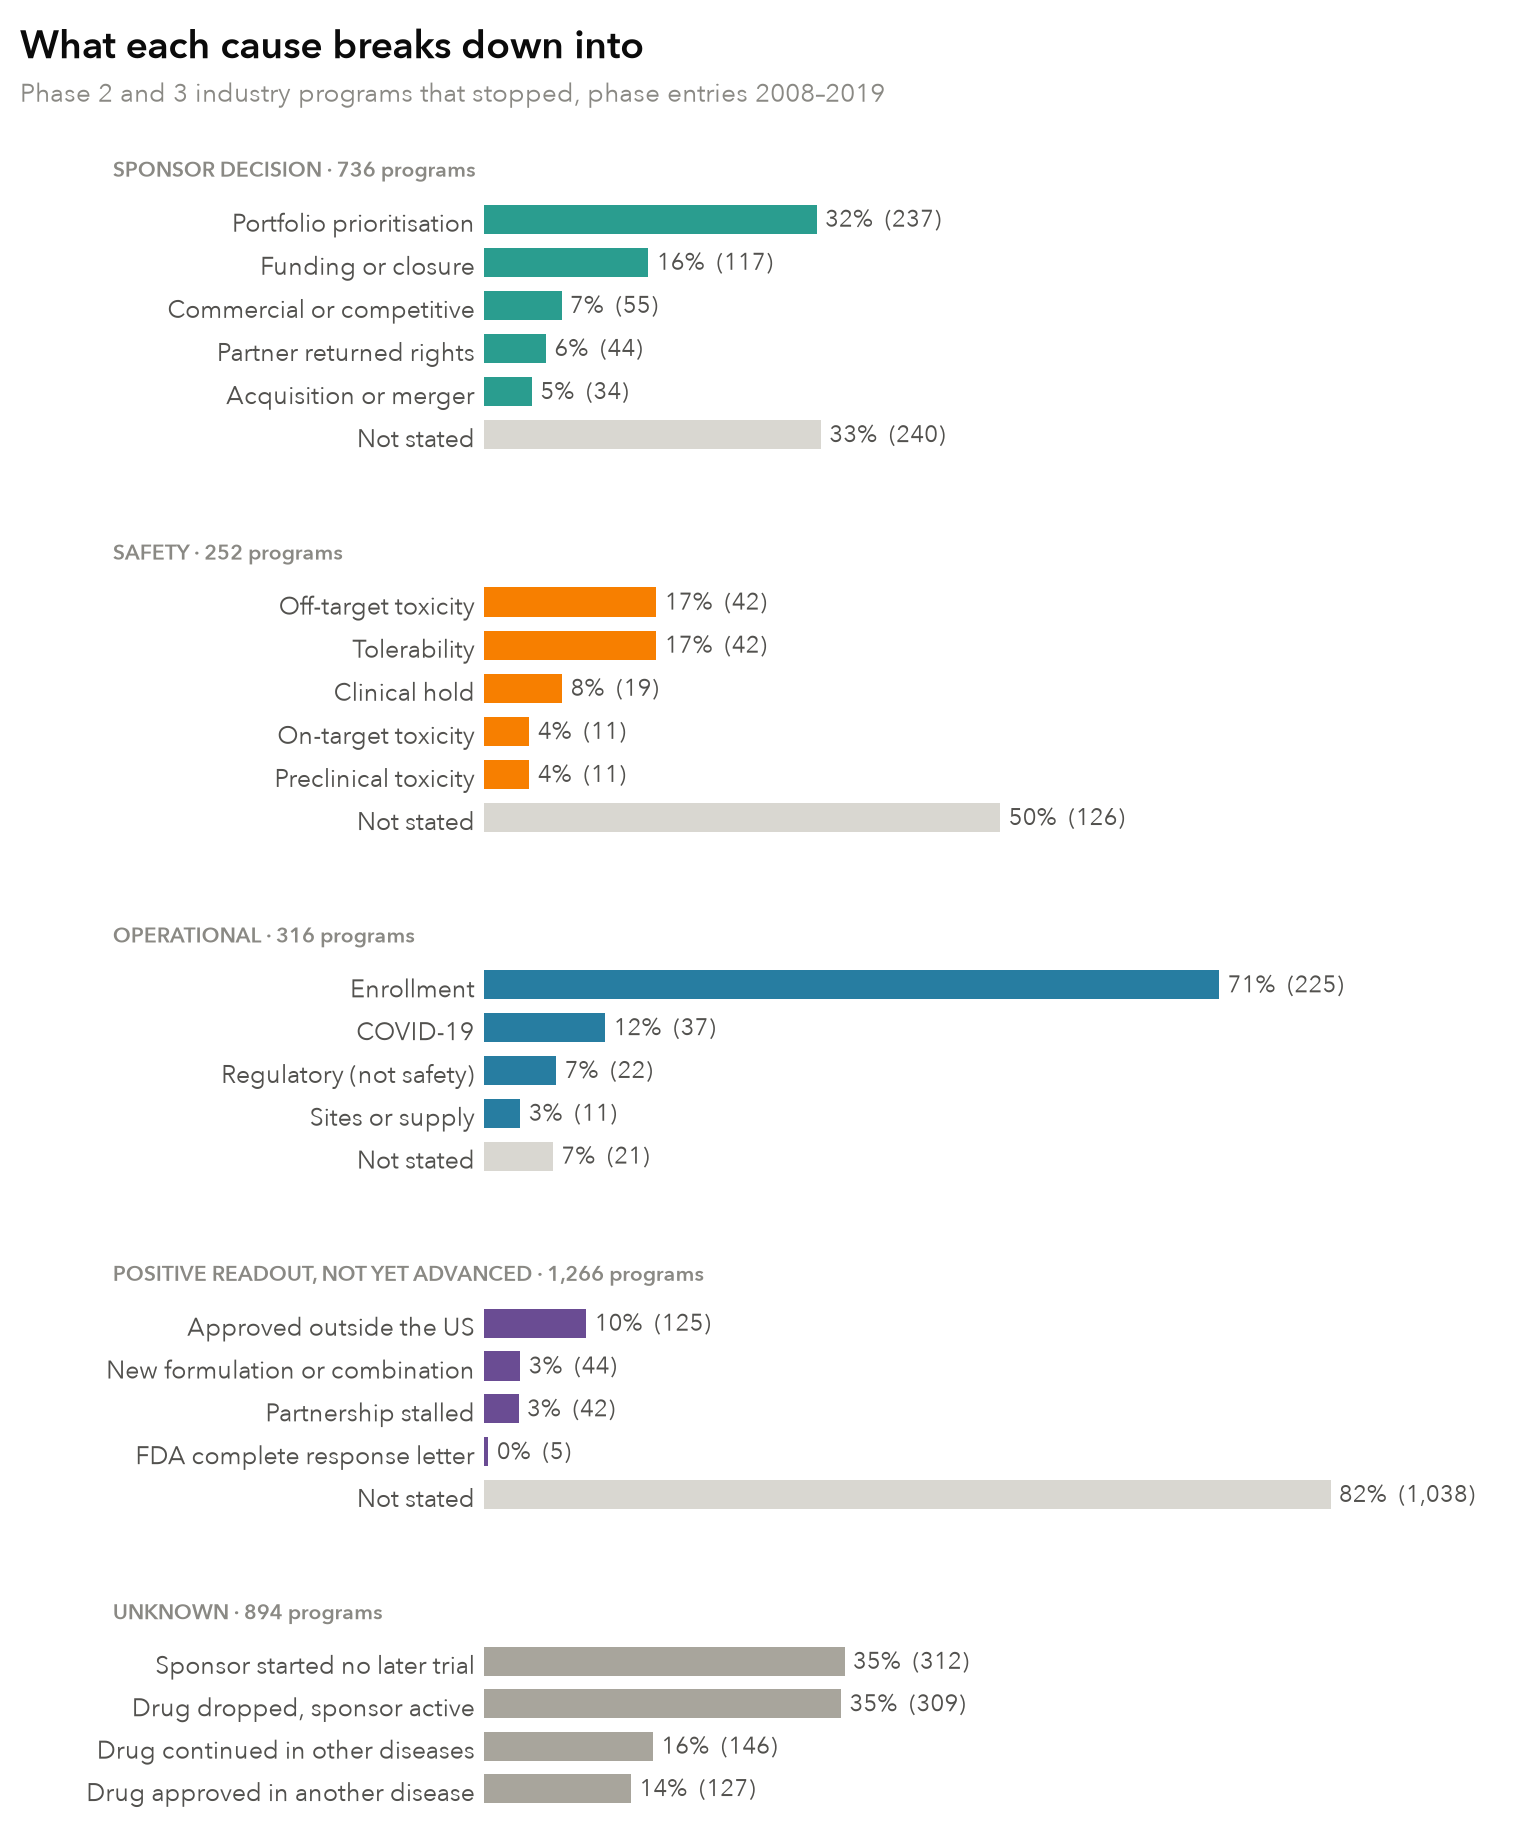
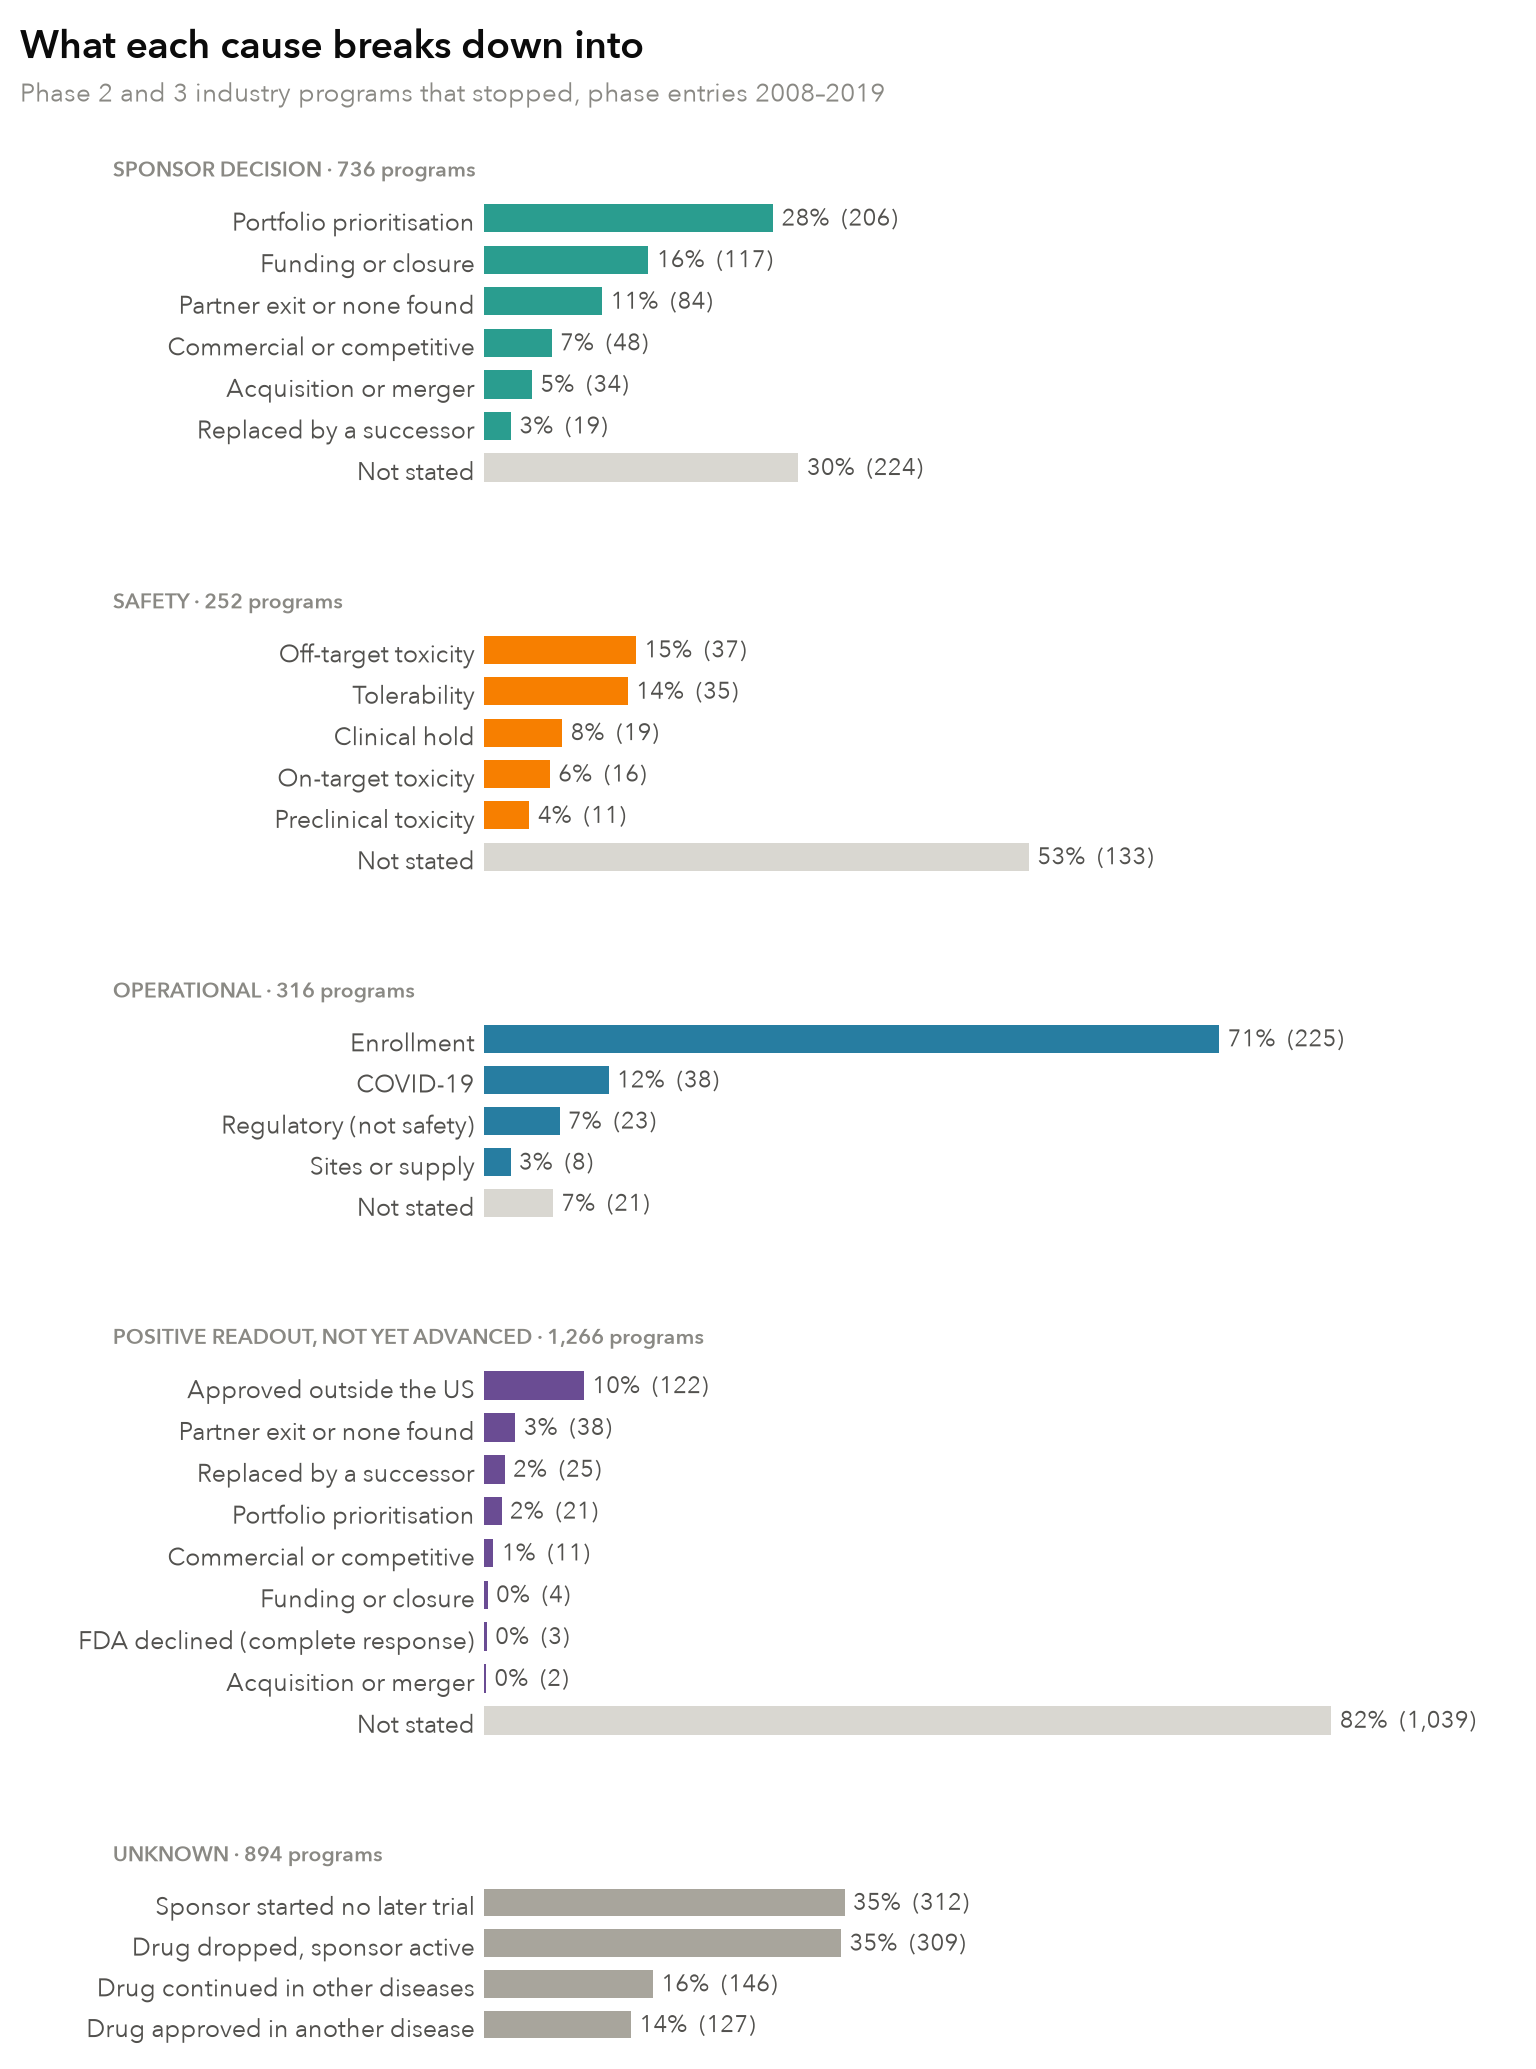
Sponsor decisions and positive readouts share one list of reasons development did not go on (#58)
A positive readout that went no further was almost always stopped by a sponsor
decision, and sponsors give two reasons the old list lacked. Both causes now draw on
DISCONTINUED: portfolio prioritisation, commercial or competitive, partner exit (a
partner left or none was found), acquisition or merger, funding or closure, replaced
by a successor. A positive readout may also be approved outside the US or declined by
the FDA. stop_subcause v2; stops with no valid subcause fall from 64 to 13.

diff --git a/pipeline/stop_causes.py b/pipeline/stop_causes.py
@@ -394,10 +394,10 @@ maps to preclin.stop's vocabulary ({'; '.join(f'{k} -> {v}' for k, v in CAUSE.it
 where no source states it, with the model's likely cause as the guess. If inference produced no validated decision
 the cause is unknown with no guess. Subcause: for an efficacy stop, why efficacy failed from its label (F9 coded by
 its pillars; not_attributed without a label); off_target_toxicity for a stop the label settles as safety; for
-safety, sponsor decision, operational and positive-readout stops, the stop_description@v1 subcause; for an unknown
+safety, sponsor decision, operational and positive-readout stops, the stop_description@v2 subcause; for an unknown
 cause, what the drug and sponsor did next
 (preclin.stop_signal). Explanation: the label's rationale where it gives the subcause, else the source quote or the
-model's basis (in stop_description@v1's plain wording where it used failure codes), else what the trial that
+model's basis (in stop_description@v2's plain wording where it used failure codes), else what the trial that
 gave Section 1 its reason states (its stated reason for stopping, else
 the result Section 1 read), with the trial in the sources. Traced: the cause did not come straight from the registry (no usable reason, or the label overturned
 it)."""
@@ -480,22 +480,22 @@ SUBCAUSE_MEANING = {
     "clinical_hold": "a regulator's clinical hold or a safety board's recommendation to stop",
     "portfolio_prioritisation": "the sponsor chose to put its resources into other programs",
     "commercial_or_competitive": "the market, pricing, reimbursement or a competing drug made it not worth pursuing",
-    "partner_returned_rights": "a licensing or development partner ended the deal or handed the rights back",
+    "partner_exit": "a licensing or development partner ended the deal or handed the rights back, or the sponsor was "
+                    "looking for a partner to take it forward and none did",
     "acquisition_or_merger": "the sponsor was acquired or merged and the program was dropped",
     "funding_or_closure": "the sponsor ran out of money, wound down, went bankrupt or closed",
     "enrollment": "patients could not be recruited or retained fast enough",
     "site_or_supply": "trial sites, drug supply, manufacturing for the trial or other logistics",
     "covid_19": "the COVID-19 pandemic disrupted the trial",
     "regulatory": "a regulatory or procedural requirement or hold not about safety",
+    "replaced_by_successor": "development moved to another formulation, dose form, combination or follow-on drug",
     "approved_outside_us": "the drug was approved, or filed, outside the United States",
-    "fda_complete_response": "the FDA declined to approve it (a complete response letter)",
-    "partnership_stalled": "a positive result was waiting for, or lost, a partner",
-    "new_formulation_or_combination": "development moved to another formulation, dose form, combination or follow-on drug",
+    "fda_declined": "the FDA declined to approve it (a complete response letter)",
     "not_stated": "the text gives no more detail than the cause",
 }
 SUBCAUSE_SYSTEM = f"""You read why a drug development program stopped and name the subcause. The cause is already decided and is given; so is the text it rests on (the sponsor's stated reason, a quote from a source, a posted result, or an analyst's reasoning).
 
-Choose the one subcause, from the list for the given cause, that the text states or directly implies. Use not_stated when the text says no more than the cause. Judge only from the text; do not use what you know about the drug or the company.
+Choose the one subcause, from the list for the given cause, that the text states or directly implies. Use not_stated when the text says no more than the cause. For a positive readout that went no further, name why development did not go on after the good result. Judge only from the text; do not use what you know about the drug or the company.
 
 Subcauses for each cause:
 {chr(10).join(f"- {c}: {', '.join(v)}" for c, v in SUBCAUSES.items())}
@@ -517,7 +517,7 @@ def validate_subcause(p: dict, out: dict) -> None:
         raise ValueError(f"subcause {out['subcause']} is not one of {p['cause']}'s")
 
 
-SUBCAUSE_TASK = llm.Task(name="stop_subcause", prompt_version="v1", schema_version="v1", system=SUBCAUSE_SYSTEM,
+SUBCAUSE_TASK = llm.Task(name="stop_subcause", prompt_version="v2", schema_version="v1", system=SUBCAUSE_SYSTEM,
                          schema=SUBCAUSE_SCHEMA, subject_type="program_phase", validate=validate_subcause,
                          render=lambda p: f"Cause: {p['cause']}\nRegistry reason: {p['registry_reason']}\n\n"
                                           f"Text:\n{p['explanation']}",
@@ -563,7 +563,7 @@ def describe_items(rows: list[tuple]) -> tuple[dict, dict]:
     return sub, plain
 
 
-DESCRIBE_METHOD = "stop_description@v1"
+DESCRIBE_METHOD = "stop_description@v2"
 DESCRIBE_DESCRIPTION = f"""Two passes over the rows stop_cause_assembly writes, without web search (model
 {SUBCAUSE_TASK.model}, effort {SUBCAUSE_TASK.effort}). {SUBCAUSE_TASK.name}: for every stop whose cause is
 {', '.join(SUBCAUSES)} and whose subcause the efficacy label does not set, the model reads the cause, the registry

diff --git a/report/stop_causes.py b/report/stop_causes.py
@@ -19,7 +19,7 @@ from sklearn.metrics import cohen_kappa_score
 
 from pipeline import llm
 from pipeline.stop_causes import VALIDATE_METHOD
-from pipeline.stops import CAUSE, CAUSES, COMPANY_ENDED, FATES, REGISTRY_CAUSE, SUBCAUSES, keys
+from pipeline.stops import CAUSE, CAUSES, COMPANY_ENDED, DISCONTINUED, FATES, REGISTRY_CAUSE, SUBCAUSES, keys
 from report import frame
 from report.windows import RECENT, SECTION1, SECTION1_PERIODS
 from report.section3 import jsonable
@@ -41,11 +41,10 @@ SUBCAUSE_NAMES = {
     "on_target_toxicity": "On-target toxicity", "off_target_toxicity": "Off-target toxicity",
     "tolerability": "Tolerability", "preclinical_toxicity": "Preclinical toxicity", "clinical_hold": "Clinical hold",
     "portfolio_prioritisation": "Portfolio prioritisation", "commercial_or_competitive": "Commercial or competitive",
-    "partner_returned_rights": "Partner returned rights", "acquisition_or_merger": "Acquisition or merger",
+    "partner_exit": "Partner exit or none found", "acquisition_or_merger": "Acquisition or merger",
     "funding_or_closure": "Funding or closure", "enrollment": "Enrollment", "site_or_supply": "Sites or supply",
     "covid_19": "COVID-19", "regulatory": "Regulatory (not safety)", "approved_outside_us": "Approved outside the US",
-    "fda_complete_response": "FDA complete response letter", "partnership_stalled": "Partnership stalled",
-    "new_formulation_or_combination": "New formulation or combination",
+    "fda_declined": "FDA declined (complete response)", "replaced_by_successor": "Replaced by a successor",
     "sponsor_went_quiet": "Sponsor started no later trial", "drug_approved_elsewhere": "Drug approved in another disease",
     "drug_continued_elsewhere": "Drug continued in other diseases", "drug_dropped": "Drug dropped, sponsor active",
     "not_stated": "Not stated",
@@ -136,6 +135,7 @@ def main() -> None:
                                   ("company_event", infer[infer.subcause.isin(COMPANY_ENDED)])]},
          "subcauses": {c: distribution(g, "subcause", BREAKDOWN[c]) for c, g in d.groupby("cause") if c in BREAKDOWN},
          "subcause_programs": {c: int(len(g)) for c, g in d.groupby("cause") if c in BREAKDOWN},
+         "positive_discontinued": float(d[d.cause.eq("positive_not_advanced")].subcause.isin(DISCONTINUED).mean()),
          "validation": validation()}
     with open(os.path.join(OUT, "numbers.json"), "w") as f:
         json.dump(n, f, indent=1, default=jsonable)

diff --git a/pipeline/stops.py b/pipeline/stops.py
@@ -46,14 +46,16 @@ SUBCAUSE = {"F1a": "not_engaged", "F1b": "not_engaged", "F2": "engaged_no_benefi
 EFFICACY_SUBCAUSES = ["not_engaged", "engaged_no_benefit", "trial_design", "toxicity_offset", "no_engagement_data"]
 # The subcauses of the other causes, chosen by pipeline.stop_causes describe from what the stop's explanation says;
 # not_stated where it says no more than the cause. A stop the efficacy label settles as safety is off_target_toxicity.
+# A sponsor decision and a positive readout that went no further share the reasons development did not go on
+# (DISCONTINUED); a positive readout may also have been approved outside the US or declined by the FDA.
+DISCONTINUED = ["portfolio_prioritisation", "commercial_or_competitive", "partner_exit", "acquisition_or_merger",
+                "funding_or_closure", "replaced_by_successor"]
 SUBCAUSES = {
     "safety": ["on_target_toxicity", "off_target_toxicity", "tolerability", "preclinical_toxicity", "clinical_hold",
                "not_stated"],
-    "sponsor_decision": ["portfolio_prioritisation", "commercial_or_competitive", "partner_returned_rights",
-                         "acquisition_or_merger", "funding_or_closure", "not_stated"],
+    "sponsor_decision": [*DISCONTINUED, "not_stated"],
     "operational": ["enrollment", "site_or_supply", "covid_19", "regulatory", "not_stated"],
-    "positive_not_advanced": ["approved_outside_us", "fda_complete_response", "partnership_stalled",
-                              "new_formulation_or_combination", "not_stated"],
+    "positive_not_advanced": ["approved_outside_us", "fda_declined", *DISCONTINUED, "not_stated"],
 }
 COMPANY_ENDED = ("acquisition_or_merger", "funding_or_closure")
 DETAIL = {"F1b": "other_drug_on_target_worked", "F3": "wrong_population", "F4": "wrong_endpoint_or_timing",

diff --git a/report/narrative/section1_stop_causes.md b/report/narrative/section1_stop_causes.md
@@ -10,7 +10,7 @@ A sourced cause was found for {{stop_causes.inferred.resolved|pct0}} of the trac
 * **Efficacy is under-recorded.** Efficacy or exposure was the sourced cause of {{stop_causes.inferred.cause.efficacy|int}} traced programs, usually from published results or a company statement the registry never carried, raising efficacy or exposure from {{stop_causes.recorded.efficacy.share|pct0}} of all Phase 2/3 stops as registered to {{stop_causes.evidence.efficacy.share|pct0}} sourced ({{stop_causes.likely.efficacy.share|pct0}} counting likely causes).
 * **Sponsor decisions are the rest.** Portfolio, commercial and partner decisions, acquisitions, mergers, lost funding and closures account for {{stop_causes.likely.sponsor_decision.share|pct0}} of all stops counting likely causes. Safety stays rare ({{stop_causes.likely.safety.share|pct0}}).
 
-**Within each cause.** Where the sponsor decided, the sources most often name portfolio prioritisation ({{stop_causes.subcauses.sponsor_decision.portfolio_prioritisation.share|pct0}}) or the company running out of money or closing ({{stop_causes.subcauses.sponsor_decision.funding_or_closure.share|pct0}}); {{stop_causes.subcauses.sponsor_decision.not_stated.share|pct0}} say no more than "business reasons". Operational stops are mostly slow enrollment ({{stop_causes.subcauses.operational.enrollment.share|pct0}}). {{stop_causes.subcauses.safety.not_stated.share|pct0}} of safety stops do not say what the harm was. Most positive readouts that went no further give no reason ({{stop_causes.subcauses.positive_not_advanced.not_stated.share|pct0}}); approval outside the US is the most common one named ({{stop_causes.subcauses.positive_not_advanced.approved_outside_us.share|pct0}}). Of the stops no source explains, {{stop_causes.subcauses.unknown.sponsor_went_quiet.share|pct0}} had a sponsor that started no later trial, and in {{stop_causes.subcauses.unknown.drug_dropped.share|pct0}} the drug was dropped while its sponsor carried on.
+**Within each cause.** Where the sponsor decided, the sources most often name portfolio prioritisation ({{stop_causes.subcauses.sponsor_decision.portfolio_prioritisation.share|pct0}}) or the company running out of money or closing ({{stop_causes.subcauses.sponsor_decision.funding_or_closure.share|pct0}}); {{stop_causes.subcauses.sponsor_decision.not_stated.share|pct0}} say no more than "business reasons". Operational stops are mostly slow enrollment ({{stop_causes.subcauses.operational.enrollment.share|pct0}}). {{stop_causes.subcauses.safety.not_stated.share|pct0}} of safety stops do not say what the harm was. Most positive readouts that went no further give no reason ({{stop_causes.subcauses.positive_not_advanced.not_stated.share|pct0}}); otherwise the drug was approved outside the US ({{stop_causes.subcauses.positive_not_advanced.approved_outside_us.share|pct0}}) or the sponsor chose not to go on, for the same reasons as other sponsor decisions ({{stop_causes.positive_discontinued|pct0}}), each as a share of all positive readouts. Of the stops no source explains, {{stop_causes.subcauses.unknown.sponsor_went_quiet.share|pct0}} had a sponsor that started no later trial, and in {{stop_causes.subcauses.unknown.drug_dropped.share|pct0}} the drug was dropped while its sponsor carried on.
 
 ![Each cause of Phase 2 and 3 stops, phase entries 2008–2019, broken down by subcause. Subcauses are what the sponsor's stated reason or the traced source says; "not stated" means it says no more than the cause. For stops no source explains (unknown), the breakdown is what the drug and its sponsor did next, not a reason](report/output/figures/stop_subcauses.png)
 

diff --git a/report/methods_stops_and_engagement.md b/report/methods_stops_and_engagement.md
@@ -51,7 +51,7 @@ sponsor decision, with acquisitions, mergers, lost funding and closures among it
 
 **Subcauses.** A second, cheaper pass (no web search) reads each safety, sponsor-decision, operational and
 positive-readout stop's explanation (the trial's stated reason, the traced source quote or the model's reasoning) and
-names the subcause it states or directly implies, or not stated: safety: on target toxicity, off target toxicity, tolerability, preclinical toxicity, clinical hold, not stated; sponsor decision: portfolio prioritisation, commercial or competitive, partner returned rights, acquisition or merger, funding or closure, not stated; operational: enrollment, site or supply, covid 19, regulatory, not stated; positive not advanced: approved outside us, fda complete response, partnership stalled, new formulation or combination, not stated.
+names the subcause it states or directly implies, or not stated: safety: on target toxicity, off target toxicity, tolerability, preclinical toxicity, clinical hold, not stated; sponsor decision: portfolio prioritisation, commercial or competitive, partner exit, acquisition or merger, funding or closure, replaced by successor, not stated; operational: enrollment, site or supply, covid 19, regulatory, not stated; positive not advanced: approved outside us, fda declined, portfolio prioritisation, commercial or competitive, partner exit, acquisition or merger, funding or closure, replaced by successor, not stated.
 The same pass rewrites explanations that used the efficacy labeller's failure codes in plain words.
 
 ### Categories, with examples
